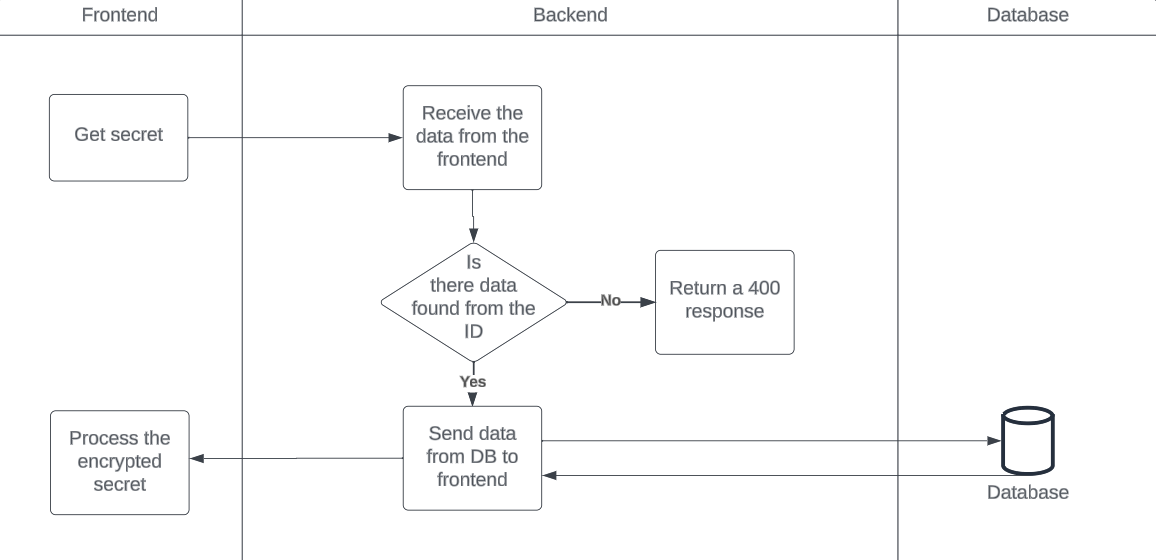
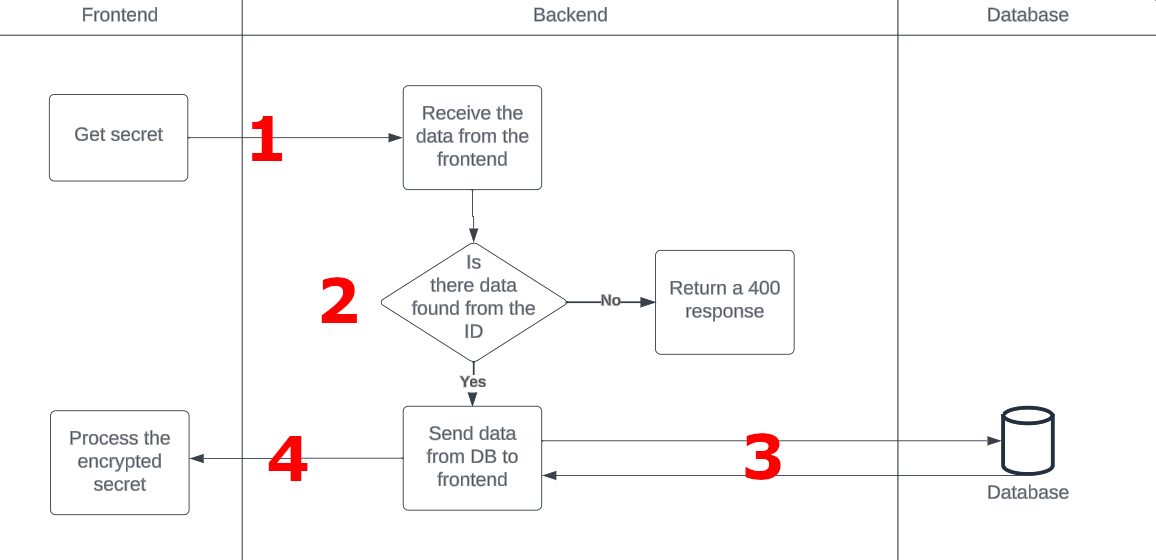
Changed the screenshots of the flowchart to include numbers in order to provide an explanation for each step.

diff --git a/USAGE_GUIDE.md b/USAGE_GUIDE.md
@@ -53,6 +53,6 @@ In the root route, a keypair generation tool is provided that generates a keypai
 
 To provide some more transparency for non-developers, we decided to provide these flowcharts with some explanation on how we handle your secrets. We will start with how a E2E is stored in the database.
 
-![Alt text](screenshots/image-13.png)
-![Alt text](screenshots/image-11.png)
-![Alt text](screenshots/image-12.png)
+![Post E2E secrets](screenshots/image-13.png)
+![Post SHE secret](screenshots/image-11.png)
+![Get Secrets](screenshots/image-12.png)
